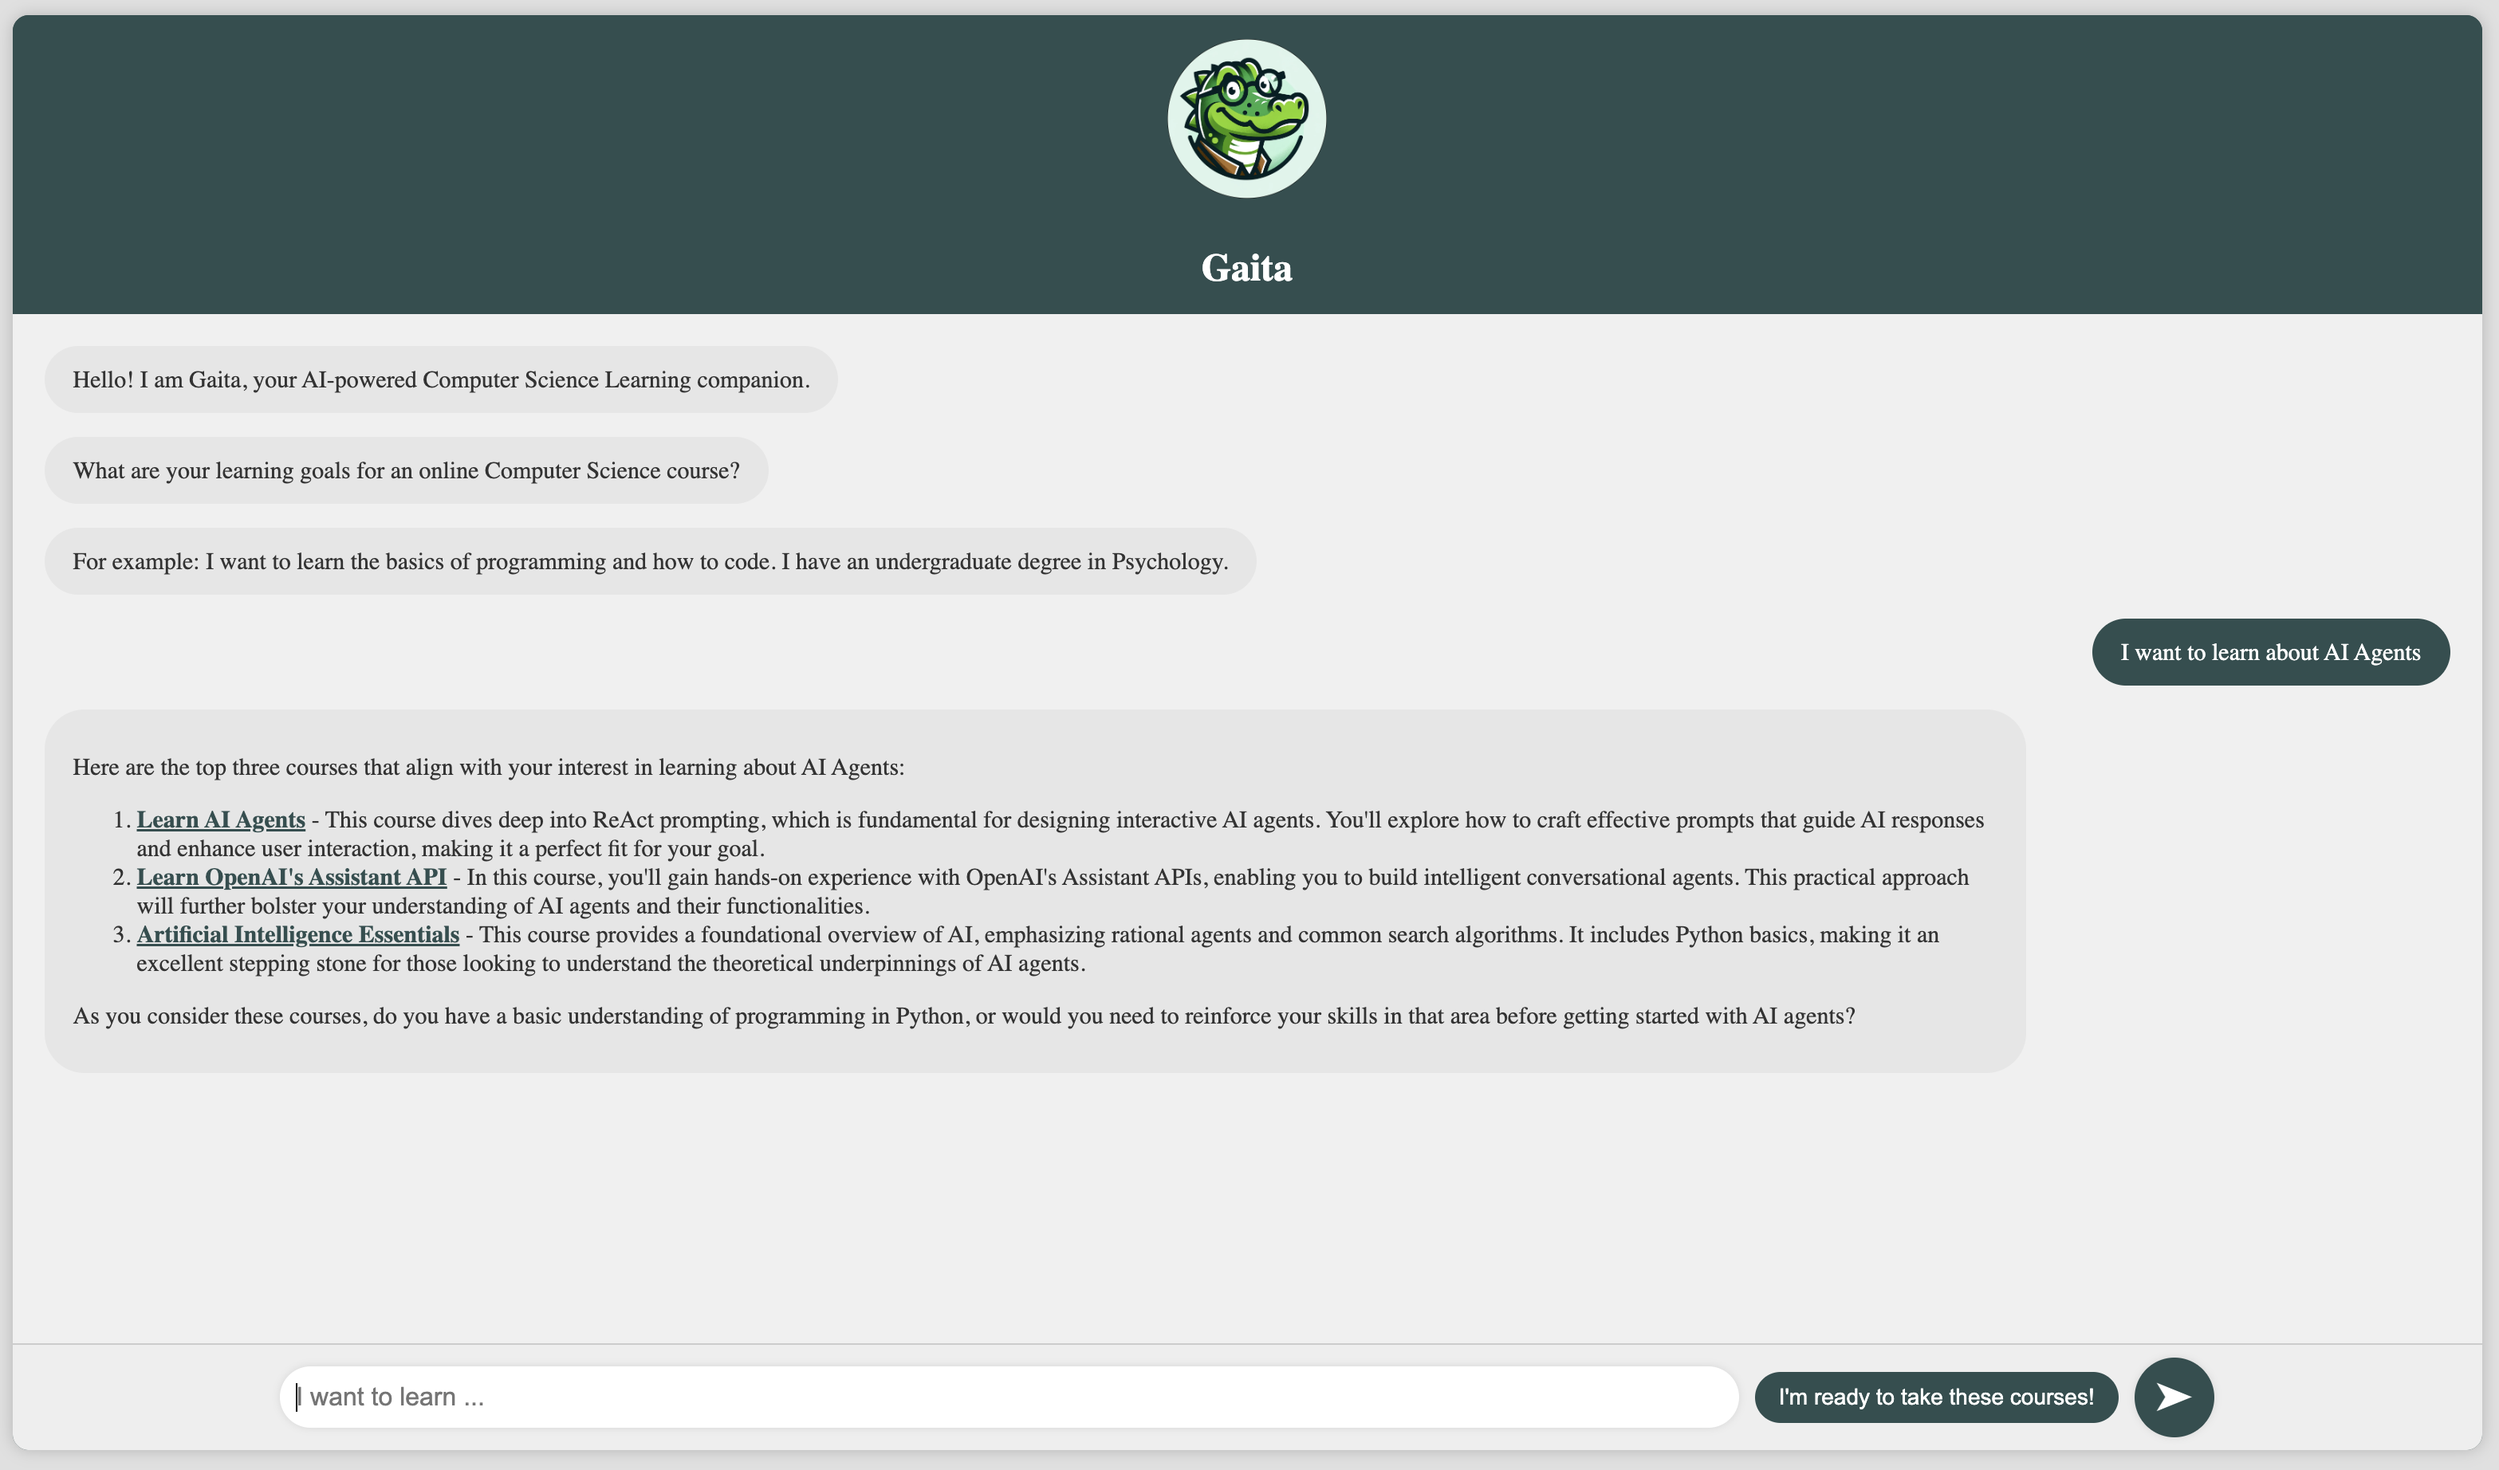
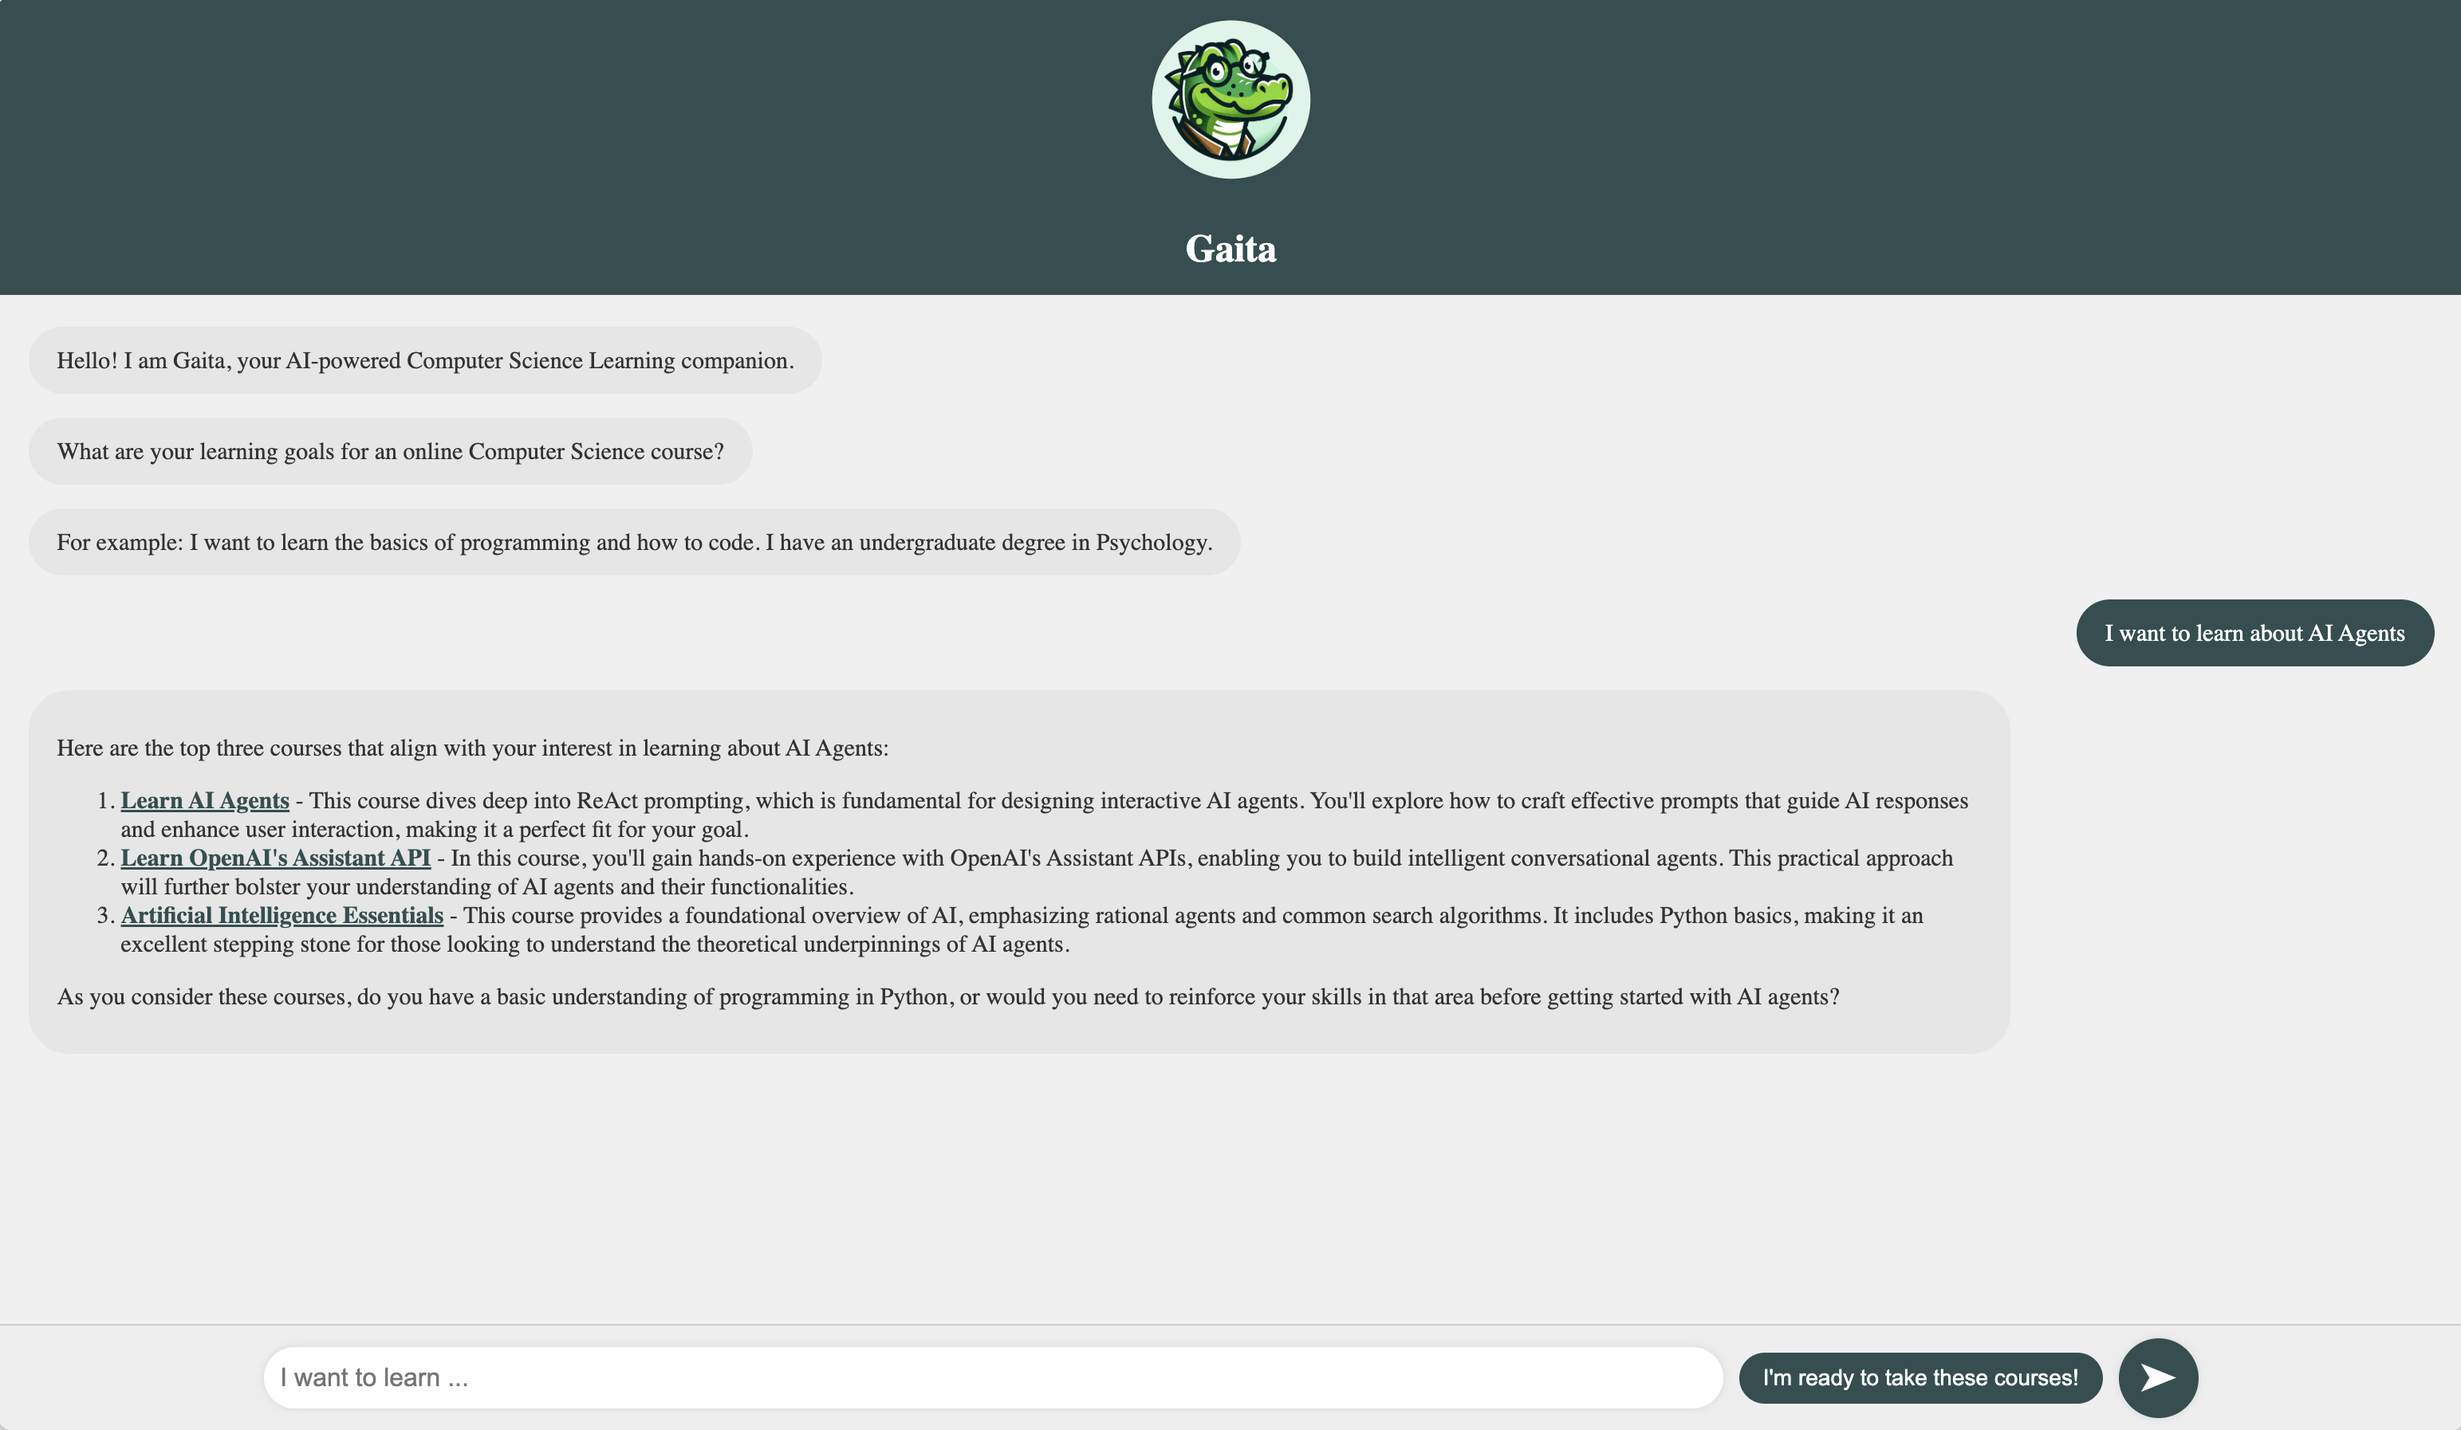
update readme

diff --git a/README.md b/README.md
@@ -18,5 +18,5 @@ You can access the Gaita chatbot by navigating to https://gaita.onrender.com.
 
 **_Important_**: If you encounter a ```502 Bad Gateway Error```, this is likely because the server is currently spinning up again. Render services can sometimes take a few minutes to become fully operational, so please wait a few minutes before refreshing the page.
 
-<img src="https://github.com/Lois-Wong/gaita/blob/main/static/example-interaction.png" alt="example-interaction" width="600"/>
+<img src="https://github.com/Lois-Wong/gaita/blob/main/static/example-interaction.png" alt="example-interaction" width="900"/>
 
